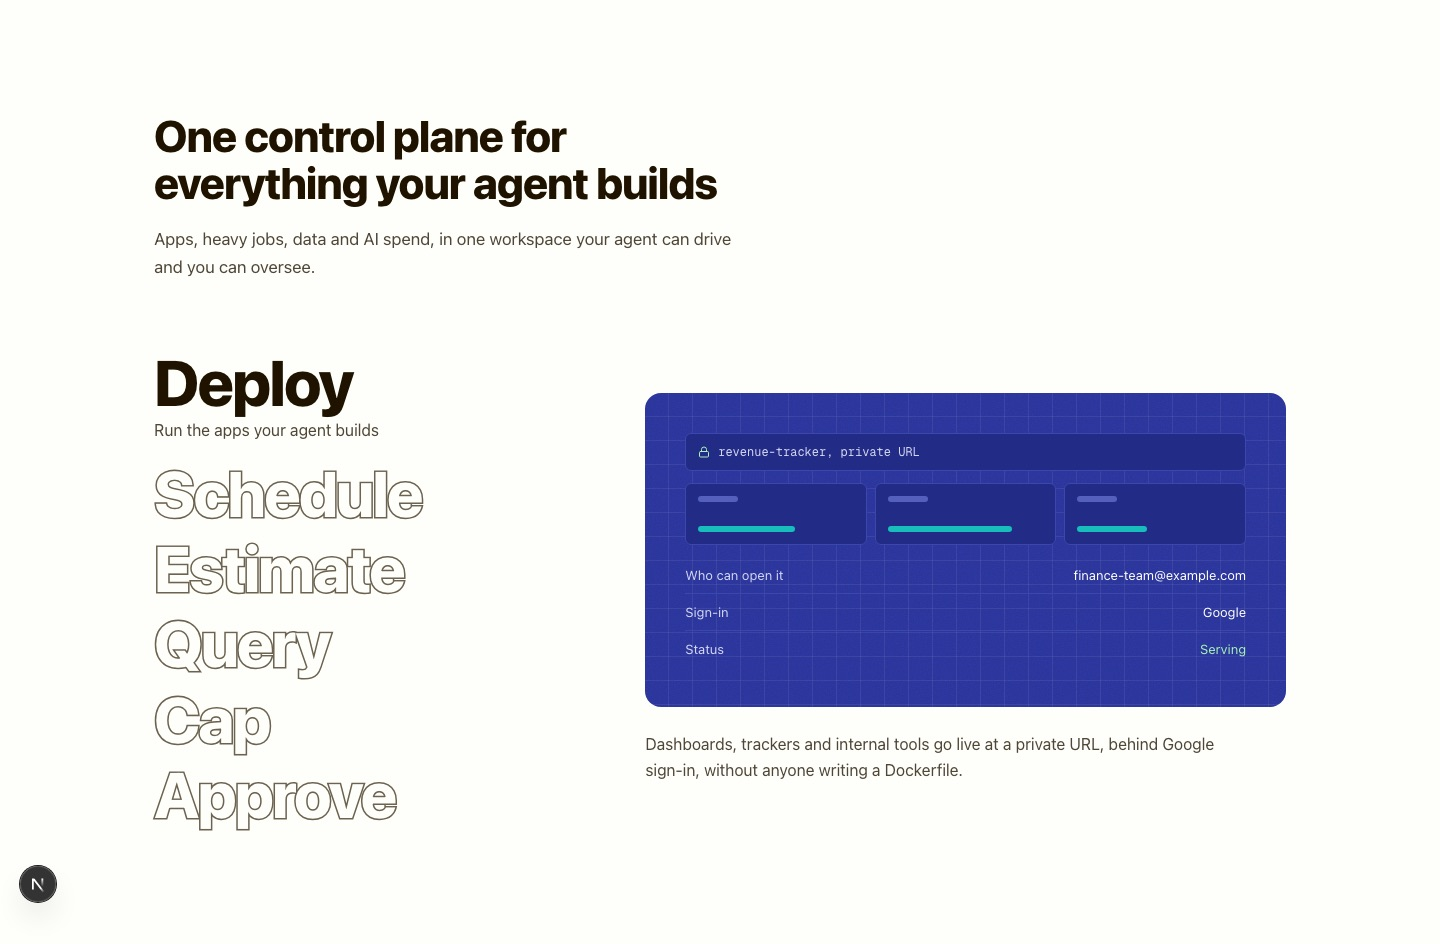
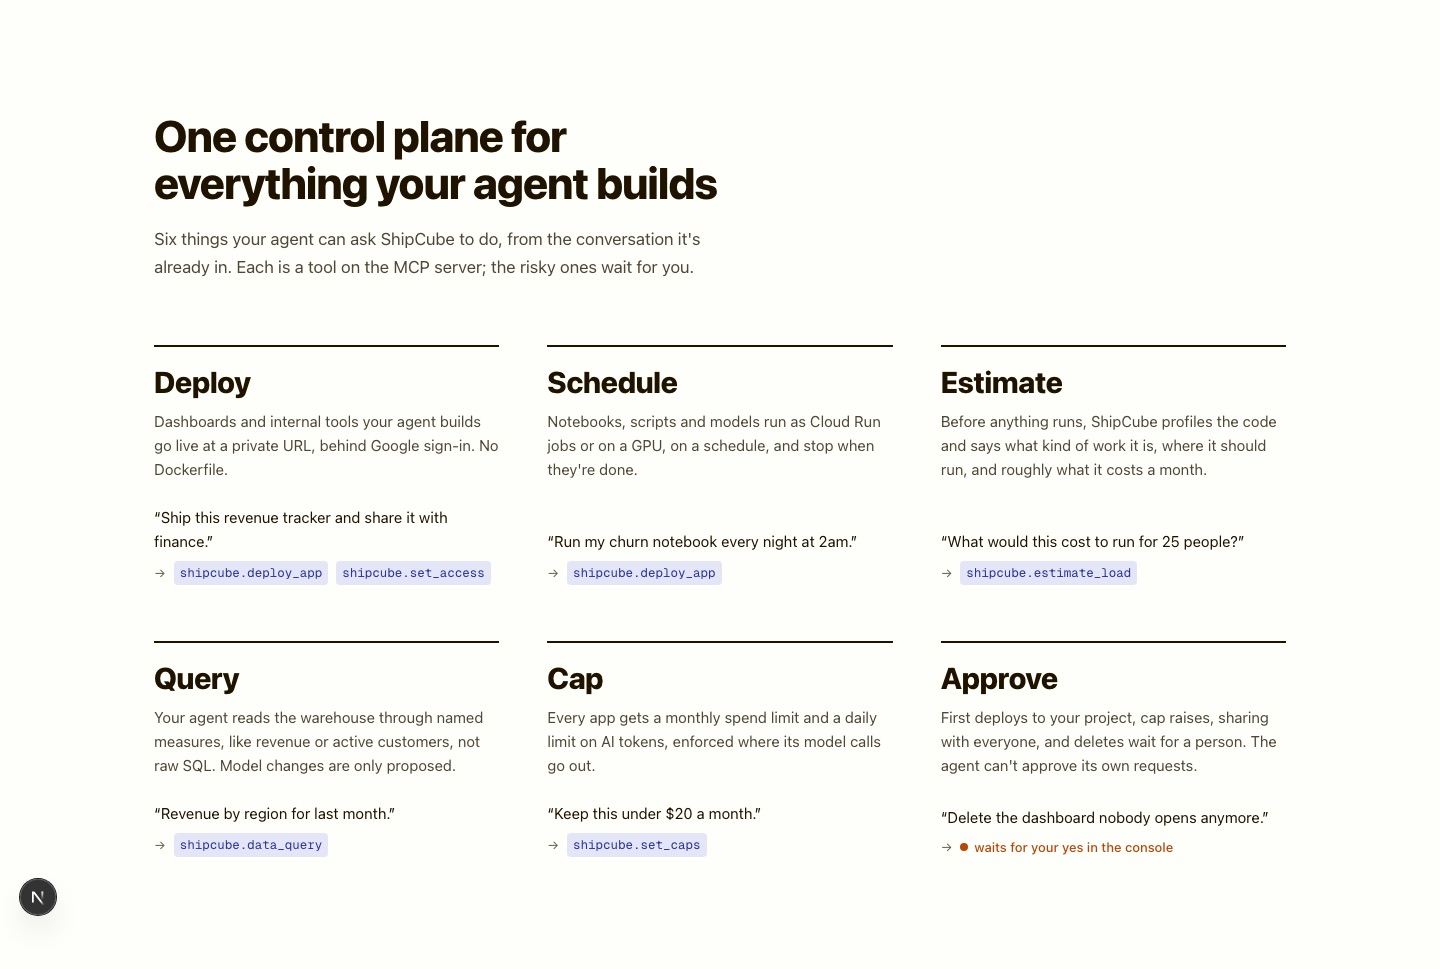
Landing: One control plane as six jobs you can read at a glance
The big outlined verbs and abstract drawings asked visitors to hover to find
out what anything meant. Each job now says what it does in one sentence and
shows a real example: what you'd say to your agent, and the ShipCube tool
that does it (or, for Approve, that it waits for your yes). Six items on a
three-column grid, two on tablets, one on phones.

diff --git a/apps/web/src/app/(public)/control-plane.tsx b/apps/web/src/app/(public)/control-plane.tsx
@@ -1,255 +1,77 @@
-"use client";
-
-import { Lock } from "lucide-react";
-import { useState } from "react";
 import { cn } from "@/lib/cn";
 
-type Job = { verb: string; title: string; body: string; Art: () => React.ReactNode };
-
-// What one ShipCube workspace does, as jobs. Each picture is an illustration of the console, not a screenshot.
-const JOBS: Job[] = [
+// What one ShipCube workspace does, as six jobs. Each says what it does in a sentence, then gives a
+// real example: what you'd say to your agent, and the ShipCube tool that does it. The requests are
+// made up; the tools are the MCP server's own.
+const JOBS = [
   {
     verb: "Deploy",
-    title: "Run the apps your agent builds",
-    body: "Dashboards, trackers and internal tools go live at a private URL, behind Google sign-in, without anyone writing a Dockerfile.",
-    Art: AppArt,
+    what: "Dashboards and internal tools your agent builds go live at a private URL, behind Google sign-in. No Dockerfile.",
+    say: "Ship this revenue tracker and share it with finance.",
+    tools: ["deploy_app", "set_access"],
   },
   {
     verb: "Schedule",
-    title: "Run heavy work in the cloud, not on your laptop",
-    body: "Notebooks, scripts and models that need memory or a GPU run as Cloud Run jobs or on an NVIDIA L4, on a schedule, and stop when they're done.",
-    Art: JobsArt,
+    what: "Notebooks, scripts and models run as Cloud Run jobs or on a GPU, on a schedule, and stop when they're done.",
+    say: "Run my churn notebook every night at 2am.",
+    tools: ["deploy_app"],
   },
   {
     verb: "Estimate",
-    title: "Know the cost before anything runs",
-    body: "ShipCube profiles the code, classifies the workload and picks where it should run. The reasoning and a monthly cost range come back first.",
-    Art: EstimateArt,
+    what: "Before anything runs, ShipCube profiles the code and says what kind of work it is, where it should run, and roughly what it costs a month.",
+    say: "What would this cost to run for 25 people?",
+    tools: ["estimate_load"],
   },
   {
     verb: "Query",
-    title: "Connect your warehouse, safely",
-    body: "Agents query your data through named measures and dimensions, not raw SQL. They can propose a model change; a person reviews the diff.",
-    Art: DataArt,
+    what: "Your agent reads the warehouse through named measures, like revenue or active customers, not raw SQL. Model changes are only proposed.",
+    say: "Revenue by region for last month.",
+    tools: ["data_query"],
   },
   {
     verb: "Cap",
-    title: "Cap what AI costs",
-    body: "Apps call models through ShipCube's gateway, with token and spend limits per app. Bring your own provider key, or use the default.",
-    Art: GatewayArt,
+    what: "Every app gets a monthly spend limit and a daily limit on AI tokens, enforced where its model calls go out.",
+    say: "Keep this under $20 a month.",
+    tools: ["set_caps"],
   },
   {
     verb: "Approve",
-    title: "Approve the risky parts",
-    body: "First deploys to your project, cap raises, domain-wide sharing and deletes wait for a person. The agent can't approve its own requests.",
-    Art: ApprovalArt,
+    what: "First deploys to your project, cap raises, sharing with everyone, and deletes wait for a person. The agent can't approve its own requests.",
+    say: "Delete the dashboard nobody opens anymore.",
+    tools: [],
   },
 ];
 
-/**
- * The six jobs as six big verbs. The active verb is ink and says what it means underneath; the
- * others step back. Beside them, a blueprint drawing of that job in the console.
- */
 export function ControlPlane() {
-  const [active, setActive] = useState(0);
-  const job = JOBS[active];
   return (
-    <div className="grid gap-10 lg:grid-cols-[minmax(0,0.8fr)_minmax(0,1.2fr)] lg:items-center lg:gap-16">
-      <ol aria-label="What ShipCube does">
-        {JOBS.map((j, i) => (
-          <li key={j.verb}>
-            <button
-              type="button"
-              onClick={() => setActive(i)}
-              onMouseEnter={() => setActive(i)}
-              aria-pressed={i === active}
-              aria-label={`${j.verb}: ${j.title}`}
-              className="group block w-full py-1 text-left"
-            >
-              <span
-                className={cn(
-                  "block font-display text-[44px] leading-[1.05] font-extrabold tracking-[-0.03em] transition-colors sm:text-[56px] lg:text-[64px]",
-                  i === active
-                    ? "text-fg"
-                    : // Outlined: the stroke paints under a page-coloured fill, so the font's overlapping contours stay hidden.
-                      "text-bg [paint-order:stroke_fill] [-webkit-text-stroke:3px_var(--fg-subtle)] group-hover:[-webkit-text-stroke-color:var(--fg)]",
-                )}
-              >
-                {j.verb}
+    <ul className="grid gap-x-12 gap-y-14 sm:grid-cols-2 lg:grid-cols-3">
+      {JOBS.map((j) => (
+        <li key={j.verb} className="flex flex-col border-t-2 border-fg pt-5">
+          <h3 className="font-display text-[30px] leading-none font-extrabold tracking-[-0.02em]">{j.verb}</h3>
+          <p className="mt-3 text-[15px] leading-6 text-fg-muted">{j.what}</p>
+          {/* The example: what you say, then what answers it. */}
+          <div className="mt-auto pt-6">
+            <p className="text-[15px] leading-6 text-fg">&ldquo;{j.say}&rdquo;</p>
+            <p className="mt-2 flex flex-wrap items-center gap-x-2 gap-y-1 text-[13px]">
+              <span className="text-fg-subtle" aria-hidden>
+                &rarr;
               </span>
-              {i === active && <span className="art-in mt-1 mb-3 block text-[16px] text-fg-muted">{j.title}</span>}
-            </button>
-          </li>
-        ))}
-      </ol>
-      <div aria-live="polite">
-        <div className="tone-blue blueprint rounded-2xl p-6 sm:p-8 lg:p-10">
-          <job.Art key={active} />
-        </div>
-        <p className="mt-6 max-w-[60ch] text-[16px] leading-[26px] text-fg-muted">{job.body}</p>
-      </div>
-    </div>
-  );
-}
-
-/* The illustrations: small, quiet pieces of console, drawn with the page's tokens. */
-
-function Row({ label, value, tone }: { label: string; value: React.ReactNode; tone?: "good" | "wait" }) {
-  return (
-    <div className="flex items-center justify-between gap-4 border-b border-border py-2 text-[13px] last:border-0">
-      <span className="text-fg-muted">{label}</span>
-      <span className={cn("text-right", tone === "good" ? "text-good" : tone === "wait" ? "text-warning" : "text-fg")}>{value}</span>
-    </div>
-  );
-}
-
-function AppArt() {
-  return (
-    <div className="art-in">
-      <div className="flex items-center gap-2 rounded-md border border-border bg-surface px-3 py-2 font-mono text-[12px] text-fg-muted">
-        <Lock className="size-3 text-good" aria-hidden />
-        revenue-tracker, private URL
-      </div>
-      <div className="mt-3 grid grid-cols-3 gap-2" aria-hidden>
-        {[62, 80, 45].map((v, i) => (
-          <div key={i} className="rounded-md border border-border bg-surface p-3">
-            <div className="h-1.5 w-10 rounded bg-border-strong" />
-            <div className="mt-6 h-1.5 rounded bg-mark" style={{ width: `${v}%` }} />
+              {j.tools.length ? (
+                j.tools.map((t) => (
+                  <code key={t} className="rounded bg-accent-soft px-1.5 py-0.5 font-mono text-[12.5px] text-accent">
+                    shipcube.{t}
+                  </code>
+                ))
+              ) : (
+                <span className={cn("inline-flex items-center gap-1.5 font-medium text-[var(--approve)]")}>
+                  <span className="size-2 rounded-full bg-[var(--approve)]" aria-hidden />
+                  waits for your yes in the console
+                </span>
+              )}
+            </p>
           </div>
-        ))}
-      </div>
-      <div className="mt-3">
-        <Row label="Who can open it" value="finance-team@example.com" />
-        <Row label="Sign-in" value="Google" />
-        <Row label="Status" value="Serving" tone="good" />
-      </div>
-    </div>
-  );
-}
-
-function JobsArt() {
-  const jobs = [
-    { name: "churn-notebook", where: "Cloud Run job", when: "Nightly, 02:00", runs: [2] },
-    { name: "ticket-embeddings", where: "NVIDIA L4", when: "Once, on demand", runs: [9, 10, 11] },
-    { name: "weekly-forecast", where: "Cloud Run job", when: "Mondays, 06:00", runs: [6] },
-  ];
-  return (
-    <div className="art-in flex flex-col gap-4">
-      {jobs.map((j) => (
-        <div key={j.name}>
-          <div className="flex items-baseline justify-between gap-3 text-[13px]">
-            <span className="font-mono text-fg">{j.name}</span>
-            <span className="text-fg-muted">
-              {j.where}, {j.when.toLowerCase()}
-            </span>
-          </div>
-          {/* A day in hours: lit cells are when it runs, and the only time it bills. */}
-          <div className="mt-2 grid grid-cols-24 gap-[3px]" aria-hidden>
-            {Array.from({ length: 24 }, (_, h) => (
-              <div key={h} className={cn("h-3 rounded-[2px]", j.runs.includes(h) ? "bg-mark" : "bg-surface-2")} />
-            ))}
-          </div>
-        </div>
+        </li>
       ))}
-      <p className="text-[12px] text-fg-subtle">Lit hours are when each job runs, and the only hours it costs anything.</p>
-    </div>
-  );
-}
-
-function EstimateArt() {
-  return (
-    <div className="art-in">
-      <div className="flex items-baseline justify-between gap-4">
-        <span className="text-[13px] text-fg-muted">Expected monthly cost</span>
-        <span className="text-[12px] text-fg-subtle">82% confidence</span>
-      </div>
-      <div className="mt-1 font-display text-[40px] leading-none font-semibold tracking-[-0.02em]">$4 to $11</div>
-      <div className="relative mt-4 h-2 rounded-full bg-surface-2" aria-hidden>
-        <div className="absolute inset-y-0 left-[18%] w-[34%] rounded-full bg-mark/60" />
-        <div className="absolute -top-1 left-[30%] h-4 w-0.5 bg-fg" />
-      </div>
-      <div className="mt-4">
-        <Row label="Workload" value="Interactive, bursty" />
-        <Row label="Runs on" value="Serverless, scales to zero" />
-        <Row label="Recommended caps" value="$20 a month, 200k tokens a day" />
-      </div>
-    </div>
-  );
-}
-
-function DataArt() {
-  return (
-    <div className="art-in grid gap-4 sm:grid-cols-2">
-      <div>
-        <p className="text-[12px] text-fg-subtle">Measures</p>
-        <ul className="mt-2 flex flex-col gap-1.5 font-mono text-[12.5px]">
-          {["orders.revenue", "orders.count", "customers.active", "customers.churned"].map((m) => (
-            <li key={m} className="rounded border border-border bg-surface px-2 py-1 text-fg">
-              {m}
-            </li>
-          ))}
-        </ul>
-      </div>
-      <div>
-        <p className="text-[12px] text-fg-subtle">Proposed by the agent</p>
-        <pre className="mt-2 overflow-hidden rounded border border-border bg-surface p-2 font-mono text-[12px] leading-5">
-          <span className="text-good">+ refunds:</span>
-          {"\n"}
-          <span className="text-good">+   sql: amount &lt; 0</span>
-          {"\n"}
-          <span className="text-good">+   type: sum</span>
-        </pre>
-        <p className="mt-2 text-[12px] text-warning">Waiting for review</p>
-      </div>
-    </div>
-  );
-}
-
-function GatewayArt() {
-  const meters = [
-    { label: "Tokens today", used: 64, cap: "200k" },
-    { label: "Spend this month", used: 38, cap: "$20" },
-  ];
-  return (
-    <div className="art-in flex flex-col gap-5">
-      {meters.map((m) => (
-        <div key={m.label}>
-          <div className="flex justify-between text-[13px]">
-            <span className="text-fg-muted">{m.label}</span>
-            <span className="text-fg">
-              {m.used}% of {m.cap}
-            </span>
-          </div>
-          <div className="mt-2 h-2 rounded-full bg-surface-2" aria-hidden>
-            <div className="h-full rounded-full bg-mark" style={{ width: `${m.used}%` }} />
-          </div>
-        </div>
-      ))}
-      <div>
-        <Row label="Provider" value="Your key, in Secret Manager" />
-        <Row label="When a cap is reached" value="Calls stop until it resets" />
-      </div>
-    </div>
-  );
-}
-
-function ApprovalArt() {
-  return (
-    <div className="art-in">
-      <div className="flex items-center gap-2 text-[13px] text-warning">
-        <span className="stage-wait inline-block size-2 rounded-full bg-warning" aria-hidden />
-        Your agent is asking
-      </div>
-      <p className="mt-2 font-display text-[20px] font-semibold">Delete old-dashboard</p>
-      <div className="mt-3">
-        <Row label="What changes" value="The app stops serving" />
-        <Row label="Data" value="Kept, restorable from the console" />
-        <Row label="Asked by" value="Muse / Claude Code, with your token" />
-      </div>
-      <div className="mt-4 flex gap-2" aria-hidden>
-        <span className="rounded-md bg-cta px-3 py-1.5 text-[13px] font-medium text-cta-fg">Delete app</span>
-        <span className="rounded-md border border-border px-3 py-1.5 text-[13px] text-fg-muted">Decline</span>
-      </div>
-    </div>
+    </ul>
   );
 }

diff --git a/apps/web/src/app/(public)/page.tsx b/apps/web/src/app/(public)/page.tsx
@@ -123,7 +123,10 @@ export default async function Landing() {
             <h2 id="plane-heading" className={`max-w-[20ch] ${H2}`}>
               One control plane for everything your agent builds
             </h2>
-            <p className={INTRO}>Apps, heavy jobs, data and AI spend, in one workspace your agent can drive and you can oversee.</p>
+            <p className={INTRO}>
+              Six things your agent can ask ShipCube to do, from the conversation it&apos;s already in. Each is a tool on the
+              MCP server; the risky ones wait for you.
+            </p>
             <div className="mt-12 lg:mt-16">
               <ControlPlane />
             </div>

diff --git a/apps/web/src/app/globals.css b/apps/web/src/app/globals.css
@@ -368,6 +368,3 @@ h3 {
 .stage-wait {
   animation: term-wait 1.2s ease-in-out infinite;
 }
-.art-in {
-  animation: term-in 0.35s ease-out;
-}
